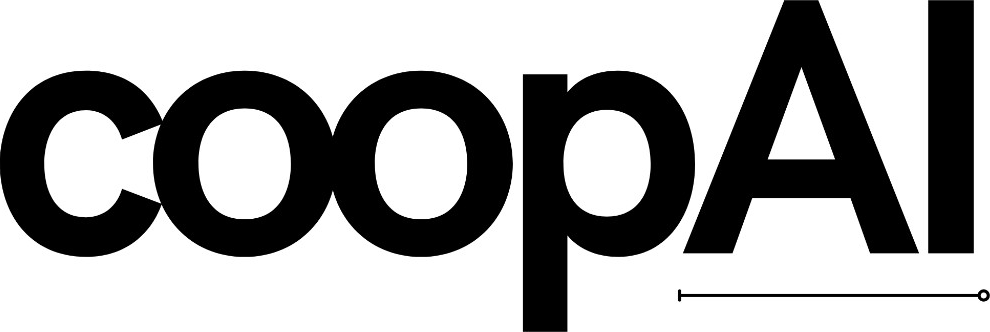
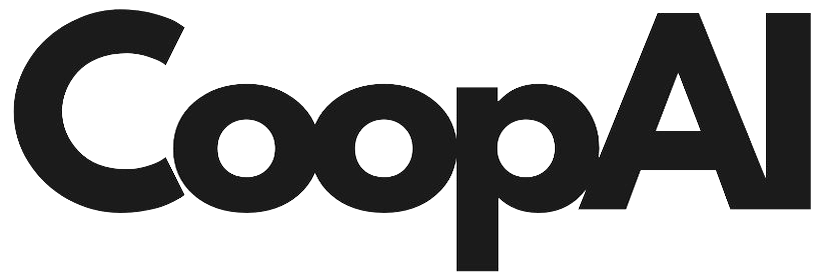
Use the homepage CoopAI wordmark on inner pages.
Inner pages were still on the old coopAI mark; switch them to the same CoopAI asset and header size as home.

diff --git a/website/src/components/BrandMark.tsx b/website/src/components/BrandMark.tsx
@@ -5,8 +5,9 @@ type BrandMarkProps = {
   inverted?: boolean;
 };
 
-const DARK_MARK = { src: "/coop-wordmark.png", ratio: 990 / 332 };
-const LIGHT_MARK = { src: "/coop-wordmark-white.png", ratio: 824 / 280 };
+const WORDMARK_RATIO = 824 / 280;
+const DARK_MARK = { src: "/coop-wordmark.png", ratio: WORDMARK_RATIO };
+const LIGHT_MARK = { src: "/coop-wordmark-white.png", ratio: WORDMARK_RATIO };
 
 export function BrandMark({ size = "md", inverted = false }: BrandMarkProps) {
   const height = size === "sm" ? 22 : 28;

diff --git a/admin/src/components/BrandMark.tsx b/admin/src/components/BrandMark.tsx
@@ -11,7 +11,7 @@ export function BrandMark({ size = "md" }: BrandMarkProps) {
     <Image
       src="/coop-wordmark.png"
       alt="CoopAI"
-      width={Math.round(height * 3)}
+      width={Math.round(height * (824 / 280))}
       height={height}
       className="coop-logo-mark h-auto w-auto"
       style={{ height }}

diff --git a/ops/src/components/BrandMark.tsx b/ops/src/components/BrandMark.tsx
@@ -11,7 +11,7 @@ export function BrandMark({ size = "md" }: BrandMarkProps) {
     <Image
       src="/coop-wordmark.png"
       alt="CoopAI"
-      width={Math.round(height * 3)}
+      width={Math.round(height * (824 / 280))}
       height={height}
       className="coop-logo-mark h-auto w-auto"
       style={{ height }}
